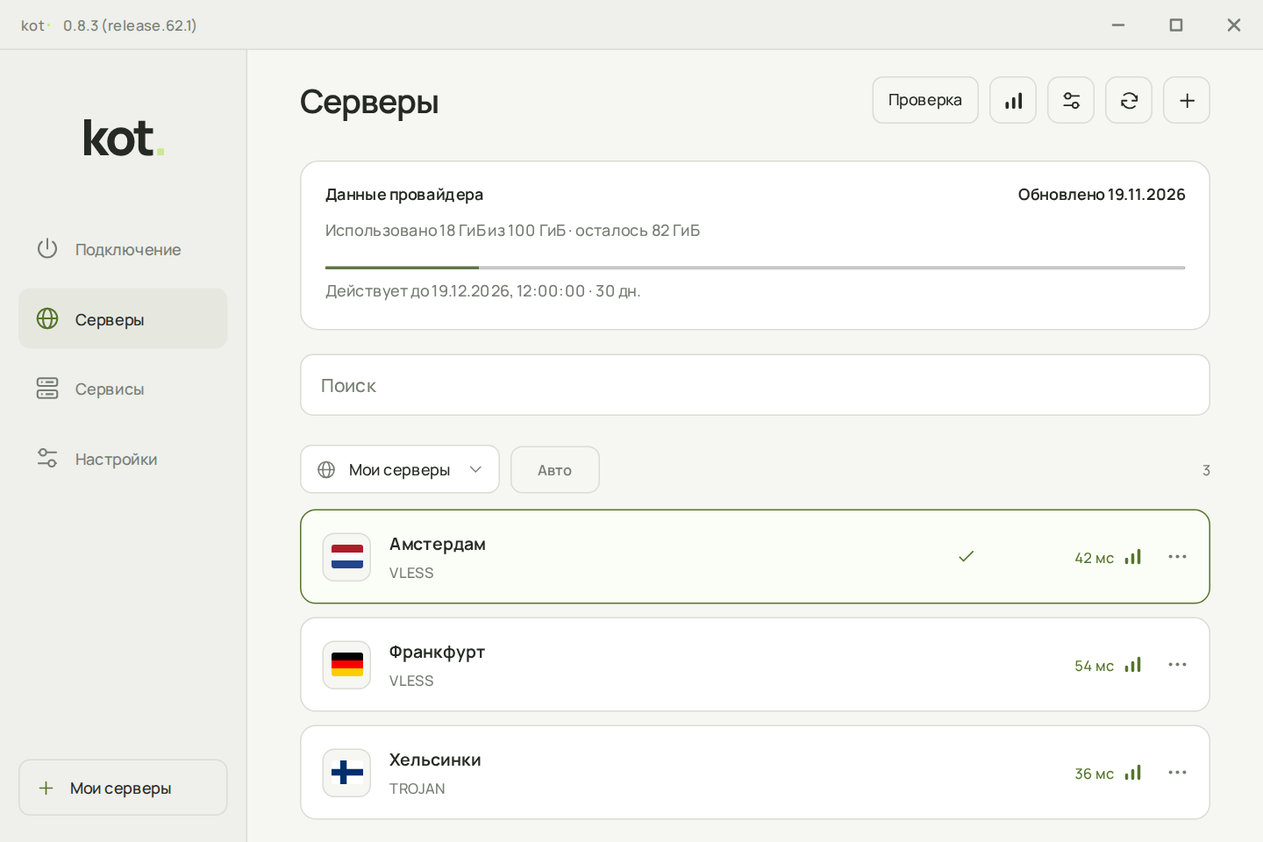
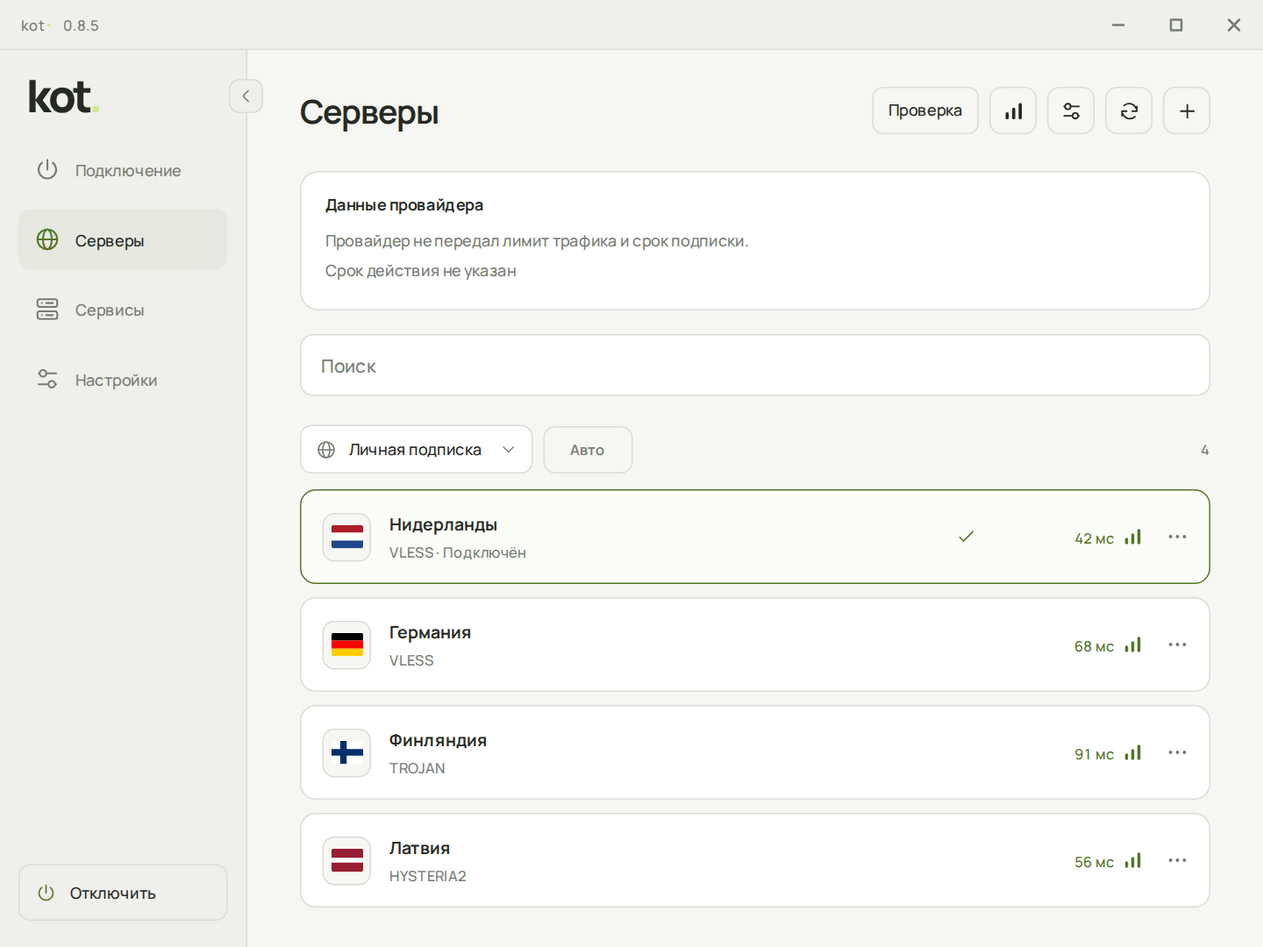
docs: refresh screenshots and user guides for 0.8.5

diff --git a/site/scripts/viewer.js b/site/scripts/viewer.js
@@ -3,11 +3,11 @@
   const ui = window.KotUI;
   const explorer = document.querySelector('[data-explorer]');
   const screens = {
-    home: { title: 'Подключение', copy: 'Выбираешь сервер и подключаешься. Здесь же переключаются TUN и системный прокси.', facts: ['Два режима подключения', 'Скорость и время сеанса'], page: 'home', alt: 'Подключение kot. 0.8.0: кнопка подключения, сервер и выбор режима' },
-    servers: { title: 'Серверы', copy: 'Подписки и отдельные серверы в одном списке. Нужный можно найти по названию, проверить и добавить в избранное.', facts: ['Поиск, задержка и избранное', 'Автовыбор доступного сервера'], page: 'servers', alt: 'Серверы kot. 0.8.0: список, поиск, пинг и избранное' },
-    routing: { title: 'Правила', copy: 'Выбираешь, какие сайты и приложения идут через сервер, какие напрямую, а какие нужно заблокировать.', facts: ['Правила для сайтов и приложений', 'Отдельные настройки DNS'], page: 'settings', alt: 'Маршрутизация kot. 0.8.0: правила, приложения и DNS', label: 'Открыть настройки в демо' },
-    statistics: { title: 'Статистика', copy: 'Сколько скачал и отправил, как долго был подключён. Можно посмотреть текущий сеанс или историю за другой период.', facts: ['Трафик по периодам', 'История подключений'], page: 'statistics', alt: 'Статистика kot. 0.8.0: сеансы и история трафика' },
-    settings: { title: 'Настройки', copy: 'Автозапуск, подключение при старте и работа в трее. Если что-то пошло не так, здесь же есть диагностика.', facts: ['Автозапуск и трей', 'Маршрутизация и диагностика'], page: 'settings', alt: 'Настройки kot. 0.8.0: внешний вид и поведение приложения' }
+    home: { title: 'Подключение', copy: 'Выбираешь сервер и подключаешься. Здесь же переключаются TUN и системный прокси.', facts: ['Два режима подключения', 'Скорость и время сеанса'], page: 'home', alt: 'Подключение kot. 0.8.5: кнопка подключения, сервер и выбор режима' },
+    servers: { title: 'Серверы', copy: 'Подписки и отдельные серверы в одном списке. Нужный можно найти по названию, проверить и добавить в избранное.', facts: ['Поиск, задержка и избранное', 'Автовыбор доступного сервера'], page: 'servers', alt: 'Серверы kot. 0.8.5: список, поиск, пинг и избранное' },
+    routing: { title: 'Правила', copy: 'Выбираешь, какие сайты и приложения идут через сервер, какие напрямую, а какие нужно заблокировать.', facts: ['Правила для сайтов и приложений', 'Отдельные настройки DNS'], page: 'settings', alt: 'Маршрутизация kot. 0.8.5: правила, приложения и DNS', label: 'Открыть настройки в демо' },
+    statistics: { title: 'Статистика', copy: 'Сколько скачал и отправил, как долго был подключён. Можно посмотреть текущий сеанс или историю за другой период.', facts: ['Трафик по периодам', 'История подключений'], page: 'statistics', alt: 'Статистика kot. 0.8.5: сеансы и история трафика' },
+    settings: { title: 'Настройки', copy: 'Автозапуск, подключение при старте и работа в трее. Если что-то пошло не так, здесь же есть диагностика.', facts: ['Автозапуск и трей', 'Маршрутизация и диагностика'], page: 'settings', alt: 'Настройки kot. 0.8.5: внешний вид и поведение приложения' }
   };
   const tabs = [...explorer.querySelectorAll('[data-explore]')];
   const list = explorer.querySelector('[role=tablist]');

diff --git a/site/index.html b/site/index.html
@@ -1,8 +1,8 @@
 <!doctype html>
 <html lang="ru"><head><meta charset="utf-8"><meta name="viewport" content="width=device-width, initial-scale=1"><meta name="theme-color" content="#101213"><meta name="color-scheme" content="dark">
-  <meta name="description" content="Клиент для Windows. Твои подписки, серверы и правила маршрутизации в одном окне.">
+  <meta name="description" content="VPN-клиент для Windows на базе Xray. Твои подписки, серверы и правила маршрутизации в одном окне.">
   <meta property="og:title" content="kot. / Твой сервер. Один клик.">
-  <meta property="og:description" content="Клиент для Windows. Твои подписки, серверы и правила маршрутизации в одном окне.">
+  <meta property="og:description" content="VPN-клиент для Windows на базе Xray. Твои подписки, серверы и правила маршрутизации в одном окне.">
   <meta property="og:type" content="website">
   <meta property="og:locale" content="ru_RU">
   <meta property="og:url" content="https://prodkot.github.io/kot/">
@@ -30,7 +30,7 @@
     <button id="view-settings" type="button" role="tab" aria-selected="false" aria-controls="vw-panel" tabindex="-1" data-explore="settings"><img src="assets/screens/settings.png" width="1440" height="1080" alt=""><span><small>05</small> Настройки</span></button>
   </div>
   <div class="vw-stage" role="tabpanel" id="vw-panel" aria-labelledby="view-home" tabindex="0">
-    <div class="vw-picture-wrap" data-swipe-gallery><button type="button" class="screen-button vw-picture" data-zoom aria-label="Увеличить выбранный экран"><img src="assets/screens/home.png" width="1440" height="960" alt="Подключение kot. 0.8.0: кнопка подключения, сервер и выбор режима" data-explorer-image fetchpriority="high"><span class="zoom-hint" aria-hidden="true">+</span></button></div>
+    <div class="vw-picture-wrap" data-swipe-gallery><button type="button" class="screen-button vw-picture" data-zoom aria-label="Увеличить выбранный экран"><img src="assets/screens/home.png" width="1440" height="960" alt="Подключение kot. 0.8.5: кнопка подключения, сервер и выбор режима" data-explorer-image fetchpriority="high"><span class="zoom-hint" aria-hidden="true">+</span></button></div>
     <div class="vw-notes"><p class="vw-counter"><span data-explorer-number>01</span><span>/ 05</span></p><div class="vw-note-copy" data-explorer-text><h2 data-explorer-title>Подключение</h2><p data-explorer-copy>Выбираешь сервер и подключаешься<span class="text-dot">.</span> Здесь же переключаются TUN и системный прокси<span class="text-dot">.</span></p><ul data-explorer-facts><li>Два режима подключения</li><li>Скорость и время сеанса</li></ul></div><button type="button" class="vw-try" data-open-demo data-demo-page="home" data-explorer-demo>Открыть демо <span aria-hidden="true">↗</span></button></div>
   </div>
 <div class="vw-controls"><span class="sr-only" aria-live="polite" data-explorer-status>Экран 1 из 5</span><div class="vw-arrows" role="group" aria-label="Переключение экранов"><button type="button" data-explore-prev aria-label="Предыдущий экран"><svg viewBox="0 0 24 24" aria-hidden="true"><path d="m14 6-6 6 6 6"/></svg></button><button type="button" data-explore-next aria-label="Следующий экран"><svg viewBox="0 0 24 24" aria-hidden="true"><path d="m10 6 6 6-6 6"/></svg></button></div></div>

diff --git a/docs/images/capture.py b/docs/images/capture.py
@@ -1,0 +1,117 @@
+"""Capture documentation from unmodified Windows/ui with synthetic host data.
+
+Requires Playwright + Chromium. Run from any directory; no real VPN is started.
+No UI markup/styles are substituted. Network requests are denied.
+"""
+import ast
+import hashlib
+import json
+from datetime import datetime, timezone
+from pathlib import Path
+import subprocess
+import xml.etree.ElementTree as ET
+from playwright.sync_api import sync_playwright, expect
+
+ROOT = Path(__file__).resolve().parents[2]
+IMAGES = ROOT / 'docs/images'
+VERSION = ET.parse(ROOT / 'Directory.Build.props').findtext('.//VersionPrefix')
+# Reuse only the bridge string, without importing or running the test module.
+MOCK = next(ast.literal_eval(n.value) for n in ast.parse((ROOT / 'Tests/statistics_ui.py').read_text()).body
+            if isinstance(n, ast.Assign) and any(getattr(t, 'id', '') == 'MOCK' for t in n.targets))
+NODES = [dict(id=key, name=name, countryCode=country, code=code, protocol=protocol,
+              ping=dict(status='ok', ms=ms, mode='http', successes=2, attempts=2))
+         for key, name, country, code, protocol, ms in [
+             ('nl', 'Нидерланды', 'NL', 'VL', 'vless', 42),
+             ('de', 'Германия', 'DE', 'VL', 'vless', 68),
+             ('fi', 'Финляндия', 'FI', 'TR', 'trojan', 91),
+             ('lv', 'Латвия', 'LV', 'HY', 'hysteria2', 56)]]
+RULES = dict(version=1, name='На каждый день', defaultAction='proxy',
+             directDomains=['.ru', '.рф'], proxyDomains=['example.org'], blockDomains=['ads.example'],
+             directCountries=['RU'], proxyCountries=[], blockCountries=[],
+             directDns='cloudflare', remoteDns='adguard')
+SETTINGS = dict(theme='dark', accent='lime', mode='tun', startup=False, autoConnect=False,
+                tray=True, sendHwid=False, killSwitch=False, killSwitchActive=False, bypass='')
+PATCH = dict(version=VERSION, displayVersion=VERSION, buildNumber='',
+             nodes=NODES, selected='nl', activeNode=NODES[0], nextNode='nl',
+             subscriptions=[dict(id='s', name='Личная подписка', count=4)], favorites=['nl', 'de'],
+             updated='2026-11-24T10:00:00Z', settings=SETTINGS,
+             routing=dict(active='daily', profiles=[dict(id='daily', rules=RULES, sourceUrl='', refreshHours=0, updated=None)], errors={}),
+             geoIp=dict(busy=False, error='', refreshHours=24, countries=[dict(code='RU', ready=True, updated='2026-11-24T10:00:00Z')]))
+
+
+def capture():
+    outputs = []
+    with sync_playwright() as p:
+        browser = p.chromium.launch(args=['--no-sandbox'])
+        try:
+            page = browser.new_page(viewport=dict(width=960, height=720), device_scale_factor=1.5,
+                                    timezone_id='Europe/Moscow', locale='ru-RU', reduced_motion='reduce')
+            page.set_default_timeout(8000)
+            errors = []
+            page.on('pageerror', lambda e: errors.append(str(e)))
+            page.route('https://**/*', lambda r: r.abort())
+            page.route('http://**/*', lambda r: r.abort())
+            page.add_init_script(MOCK)
+            page.clock.install(time=datetime(2026, 11, 24, 12, tzinfo=timezone.utc))
+            page.goto((ROOT / 'Windows/ui/index.html').as_uri())
+            expect(page.locator('#startupScreen')).to_be_hidden()
+            page.clock.pause_at(datetime(2026, 11, 24, 12, 0, 5, tzinfo=timezone.utc))
+            page.evaluate('patch => fixtureStatistics(patch)', PATCH)
+            page.evaluate('''() => {
+                const s=fixtureStatisticsData();
+                s.started='2026-11-24T11:40:26Z';
+                s.firstRecorded='2026-09-01T10:00:00Z';
+                s.detail={firstRecorded:s.firstRecorded,error:'',days:[],speeds:[]};
+                for(const period of ['session','week','month','allTime'])
+                    s.detail[period]=[{app:'Не определено',route:'unknown',download:s[period].download,upload:s[period].upload}];
+                fixtureStatistics({statistics:s});
+            }''')
+            expect(page.locator('#titleVersion')).to_have_text(VERSION)
+            page.evaluate('document.fonts.ready')
+
+            def shot(paths):
+                page.mouse.move(0, 0)
+                page.clock.run_for(500)
+                data = page.screenshot(animations='disabled')
+                for path in paths:
+                    dest = ROOT / path
+                    dest.parent.mkdir(parents=True, exist_ok=True)
+                    dest.write_bytes(data)
+                    outputs.append(dict(path=path, sha256=hashlib.sha256(data).hexdigest()))
+                print('Captured', paths[0], flush=True)
+
+            page.set_viewport_size(dict(width=960, height=640))
+            expect(page.locator('#stateLabel')).to_have_text('Подключено')
+            shot(['docs/images/readme/connection.png', 'site/assets/screens/home.png'])
+            page.set_viewport_size(dict(width=960, height=720))
+            page.evaluate('fixtureNavigate("servers")')
+            page.evaluate('settings => fixtureStatistics({settings})', {**SETTINGS, 'theme': 'light'})
+            shot(['docs/images/readme/servers.png'])
+            page.evaluate('settings => fixtureStatistics({settings})', SETTINGS)
+            shot(['site/assets/screens/servers.png'])
+            page.evaluate('fixtureNavigate("settings")')
+            shot(['site/assets/screens/settings.png'])
+            page.locator('#routingButton').click()
+            expect(page.locator('#routingName')).to_have_value(RULES['name'])
+            shot(['docs/images/routing-dark.png', 'site/assets/screens/routing.png'])
+            page.locator('#geoIpButton').click()
+            expect(page.locator('#geoIpDialog')).to_be_visible()
+            shot(['docs/images/geoip-dark.png'])
+            page.locator('#closeGeoIp').click()
+            page.locator('#closeRouting').click()
+            page.evaluate('fixtureNavigate("statistics")')
+            expect(page.locator('#statisticsDownload')).to_have_text('512 МБ')
+            shot(['docs/images/statistics-dark.png', 'site/assets/screens/statistics.png'])
+            assert not errors, errors
+            manifest = dict(version=VERSION, sourceCommit=subprocess.check_output(['git', 'rev-parse', 'HEAD'], cwd=ROOT, text=True).strip(),
+                            renderer='Chromium ' + browser.version, host='synthetic bridge, no Windows host or VPN',
+                            viewport={'home': [960, 640], 'other': [960, 720]}, deviceScaleFactor=1.5,
+                            uiSha256={str(path.relative_to(ROOT)): hashlib.sha256(path.read_bytes()).hexdigest()
+                                      for path in sorted((ROOT/'Windows/ui').iterdir()) if path.is_file() and path.suffix in ('.js','.html','.css')},
+                            images=outputs)
+            (IMAGES / 'capture.json').write_text(json.dumps(manifest, ensure_ascii=False, indent=2) + '\n')
+        finally:
+            browser.close()
+
+if __name__ == '__main__':
+    capture()

diff --git a/docs/STATISTICS.md b/docs/STATISTICS.md
@@ -1,12 +1,12 @@
 # Время подключения и статистика
 
-> Экспериментальная 0.8.0 использует Xray Metrics. Общие итоги, таймеры и история сохраняются. Xray не отдаёт прежний список соединений, поэтому новые данные по приложениям и маршрутам считаются неопределёнными. Ниже описание распределения прежних версий относится к сохранённой истории, а не к возможностям нового ядра.
+kot. 0.8.5 использует Xray Metrics. Общие итоги, таймеры и история сохраняются. Xray не отдаёт список отдельных соединений: новые данные по приложениям и маршрутам учитываются как «Не определено» и «Маршрут не определён». Распределение из старых версий остаётся в сохранённой истории.
 
-Начиная с версии 0.6.0 ниже общих итогов показываются приложения и маршруты «Через VPN», «Напрямую» и «Маршрут не определён», график скорости последних трёх минут текущего сеанса, дневные итоги и график трафика за выбранный календарный период. Для «Всё время» график показывает последние 30 дней, а числовые итоги охватывают всю сохранённую историю.
+Ниже общих итогов показываются приложения и маршруты «Через VPN», «Напрямую» и «Маршрут не определён», график скорости последних трёх минут текущего сеанса, дневные итоги и график трафика за выбранный календарный период. Для «Всё время» график показывает последние 30 дней, а числовые итоги охватывают всю сохранённую историю.
 
 Подробные счётчики сохраняются отдельно в `traffic-details.json`. Общие показатели из `traffic-history.json` сохраняются при обновлении; прошлый трафик нельзя задним числом распределить по приложениям. Дата начала подробного учёта показана на странице. Скоростной график хранится только для текущего процесса и очищается при новом подключении.
 
-Ядро опрашивается раз в две секунды. Соединения, успевшие закрыться между опросами, и приложения без имени учитываются как «Не определено». Сумма подробных счётчиков сверяется с общим трафиком ядра. При позднем появлении соединения его доля ограничивается трафиком соответствующего интервала, поэтому распределение по приложениям следует считать оценкой. В режиме системного прокси приложения определяются не для всех соединений. Учитывается только трафик, прошедший через ядро, включая его прямые маршруты.
+Старая разбивка по приложениям была оценкой: короткие соединения между опросами и процессы без имени могли попадать в неизвестные. В текущем клиенте отдельные приложения и маршруты из общих счётчиков Xray не восстанавливаются. Нулевой итог «Через VPN» в этой разбивке не означает отсутствие VPN-трафика; общий объём показан выше, а новая подробная запись относится к неопределённому маршруту.
 
 Открой **Настройки → Статистика**: строка находится в основной карточке сразу под **Закрывать в трей**. Раздел также доступен в меню значка приложения в трее. Здесь показан таймер текущего подключения. Он запускается после успешной проверки соединения и останавливается при отключении. Попытки соединения и ожидание сети не входят во время подключения. Каждый успешный запуск нового соединения, включая автоматическое переподключение, начинает новый сеанс. Смена выбранного узла внутри работающего ядра сама по себе не начинает новый сеанс.
 
@@ -21,7 +21,7 @@
 
 ![Статистика в тёмной теме](images/statistics-dark.png)
 
-На снимке показаны демонстрационные данные браузерного теста, а не измерение реального VPN-соединения.
+На снимке интерфейс 0.8.5 в Chromium с демонстрационными данными. Это не измерение реального VPN-соединения.
 
 ## Что измеряется
 

diff --git a/docs/GUIDE.md b/docs/GUIDE.md
@@ -6,7 +6,7 @@
 
 В ручном режиме обновление подписки сохраняет текущее подключение. Даже если выделена другая строка, выключение и включение VPN вернёт тебя на прежний сервер. Чтобы сменить его, нажми на нужную строку. Если сервер исчез, действующий туннель продолжит работу, а для нового подключения понадобится выбрать сервер или **Авто**. Если прежний сервер вернулся под другим именем или с новым клиентским UUID, kot восстановит выбор, когда адрес, транспорт и параметры защиты позволяют однозначно узнать его. После переподключения используются обновлённые данные. Когда выделенная строка отличается от цели подключения, на главной видно, куда ведёт туннель и куда подключится кнопка.
 
-В **Логах** видны сообщения приложения. Экспериментальная версия 0.8.0 получает от Xray общий трафик без списка отдельных соединений. Кнопка копирования собирает полный диагностический лог. Перед публикацией проверь его: там могут остаться адреса сайтов и другие личные сведения.
+В **Журнале** видны сообщения приложения. kot. получает от Xray общий трафик без списка отдельных соединений. Кнопка копирования собирает полный диагностический лог. Перед публикацией проверь его: там могут остаться адреса сайтов и другие личные сведения.
 
 ## Режим подключения
 
@@ -43,15 +43,17 @@
 
 ## Окно и трей
 
+Боковую панель можно свернуть кнопкой у её верхней границы. Кнопка подключения внизу панели доступна и на других страницах; она отражает текущее состояние VPN.
+
 Свернуть оставляет окно на панели задач. Если включено **Закрывать в трей**, крестик скрывает окно. Левый клик по иконке трея открывает kot., правый открывает меню. Полный выход находится в этом меню.
 
 ## Обновления
 
 В **Настройках** нажми **Проверить обновления**. Программа проверит новую версию на GitHub, в `prodkot/kot`. Если обновление есть, нажми **Обновить**. Фоновая проверка при старте и раз в сутки только ищет новую версию. Плашка предлагает «Обновить» или «Не сейчас»: загрузка и установка запускаются только после нажатия «Обновить». «Не сейчас» скрывает предложение для этой версии, в том числе после перезапуска. Обновиться позже можно через настройки; следующая новая версия покажет своё предложение. Перед установкой проверяются подписи; папку выбирать не нужно. Подписки, настройки и HWID сохраняются, активное соединение восстанавливается после перезапуска.
 
-Версия 0.4.2 и более ранние искали ZIP. Для перехода на 0.5.x нужно один раз запустить новый Setup. Следующие обновления уже работают через Setup.
+Для перехода с 0.7.x и более ранних выпусков скачай текущий Setup и запусти его вручную поверх установленного клиента: прежний обновлятор несовместим с нынешним пакетом на Xray. С 0.8.5 Beta на стабильную 0.8.5 также переходи вручную, потому что базовый номер версии совпадает. Подробнее о совместимости: [ядро Xray](XRAY.md#проверка-и-установка).
 
-Резервная копия доступна в **Настройки → Дополнительно**. Файл содержит данные подписок, храни его как пароль. HWID можно посмотреть и скопировать в **Настройки → HWID**.
+Резервная копия доступна в **Настройки → Дополнительно**. Файл содержит данные подписок, храни его как пароль. HWID можно посмотреть и скопировать в **Настройки → Дополнительно → HWID**.
 
 ## Статистика подключения
 

diff --git a/docs/images/README.md b/docs/images/README.md
@@ -1,7 +1,27 @@
 # Изображения документации
 
-На главной странице репозитория показаны [главный экран](readme/connection.png) и [список серверов](readme/servers.png) версии 0.8.3. Оба снимка сделаны в браузере с интерфейсом клиента и демонстрационными данными.
+Снимки README, пользовательских руководств и галереи сайта обновлены для **0.8.5**. Источник: интерфейс `Windows/ui` из коммита релиза `3707fd09546bc822811f35de6fb7d2b18e82a247`. Исходные HTML, CSS и JavaScript интерфейса при съёмке не подменяются.
 
-В этой папке также хранятся фирменный баннер `cover.svg` и снимок главного экрана версии 0.8.0 `overview-dark.png`. Снимки для сайта находятся в `site/assets`.
+| Снимок | Содержание |
+| --- | --- |
+| [readme/connection.png](readme/connection.png) | Подключение, тёмная тема, 1440 × 960 |
+| [readme/servers.png](readme/servers.png) | Серверы, светлая тема, 1440 × 1080 |
+| [routing-dark.png](routing-dark.png) | Профиль маршрутизации и DNS |
+| [geoip-dark.png](geoip-dark.png) | Базы GeoIP |
+| [statistics-dark.png](statistics-dark.png) | Сеанс и неопределённый маршрут Xray |
 
-`routing-dark.png`, `geoip-dark.png` и `statistics-dark.png` иллюстрируют отдельные руководства. Это снимки интерфейса, а не доказательство сетевых измерений.
+Пять снимков сайта находятся в [site/assets/screens](../../site/assets/screens). Они показывают подключение, серверы в тёмной теме, маршрутизацию, статистику и настройки. Размеры совпадают с прежними изображениями, чтобы сохранить геометрию галереи.
+
+Это браузерные снимки реального интерфейса с синтетическим мостом вместо Windows-хоста. Серверы, пинг, трафик, длительность сеанса, правила и состояние GeoIP демонстрационные. Сеть при съёмке заблокирована. Снимки не подтверждают работу VPN, установщика или Windows WebView2 и не содержат пользовательских подписок или секретов.
+
+## Повторить съёмку
+
+Нужны Python, Playwright и Chromium. Из корня репозитория запусти:
+
+```sh
+python3 docs/images/capture.py
+```
+
+[Скрипт](capture.py) использует мост из `Tests/statistics_ui.py`, задаёт фиктивное время и данные, снимает обе темы и обновляет [capture.json](capture.json). В манифесте записаны коммит, версия браузера, размеры, SHA-256 исходников UI и изображений. Номер версии берётся из `Directory.Build.props`; номер сборки не имитируется. После пересъёмки проверь кадры глазами и обнови подписи в README и галерее.
+
+`cover.svg` остаётся фирменным баннером. `overview-dark.png` хранится как исторический снимок 0.8.0 и не используется для показа текущего релиза.

diff --git a/README.md b/README.md
@@ -7,19 +7,25 @@
   </picture>
 </h1>
 
-<p align="center">Клиент для Windows. Твои подписки, серверы и правила маршрутизации в одном окне.</p>
+<p align="center">VPN-клиент для Windows на базе Xray. Твои подписки, серверы и правила маршрутизации в одном окне.</p>
 
 <p align="center"><strong><a href="https://github.com/prodkot/kot/releases/latest">Скачать для Windows x64</a></strong> · <a href="https://prodkot.github.io/kot/#demo" title="Твой сервер. Один клик.">Сайт и демо</a> · <a href="docs/README.md">Документация</a></p>
 
 ![Главный экран kot. с активным TUN, выбранным сервером и скоростью передачи данных](docs/images/readme/connection.png)
 
-*Главный экран v0.8.3. Сервер и показатели трафика демонстрационные.*
+*Интерфейс [0.8.5](https://github.com/prodkot/kot/releases/tag/v0.8.5). Браузерный снимок с демонстрационными сервером и трафиком.*
+
+kot. is an open-source Windows VPN and proxy client powered by Xray, with TUN, system proxy and routing profiles. Bring your own server or subscription.
+
+kot. не предоставляет VPN-серверы: нужна своя подписка или ссылка на сервер.
 
 ## Первое подключение
 
 1. Установи kot. на Windows 10 или 11 (x64). При запуске подтверди запрос прав администратора.
 2. Нажми **+** и вставь ссылку на свою подписку или отдельный сервер.
 3. Выбери сервер и нажми **Подключить**. В режиме TUN клиент проверит адаптер, DNS и прохождение трафика перед тем, как показать «Подключено».
+
+В 0.8.5 доступны просмотр JSON сервера, меню обмена QR и сворачиваемая боковая панель с кнопкой подключения. [Инструменты клиента](docs/CLIENT-TOOLS.md) описывают импорт, проверки и работу с профилями; подробный список изменений есть в [истории версий](CHANGELOG.md).
 
 ## Как проходит трафик
 
@@ -30,7 +36,9 @@ kot. использует Xray и поддерживает VLESS, VMess, Trojan,
 <details>
 <summary>Посмотреть список серверов</summary>
 
-![Экран «Серверы» в светлой теме с примером подписки и результатами проверки задержки](docs/images/readme/servers.png)
+![Экран «Серверы» kot. 0.8.5 в светлой теме с примером подписки и результатами проверки задержки](docs/images/readme/servers.png)
+
+*Тот же интерфейс 0.8.5 в светлой теме. Подписка, серверы и пинг демонстрационные.*
 
 </details>
 

diff --git a/docs/ROUTING.md b/docs/ROUTING.md
@@ -16,7 +16,7 @@
 
 Подписка также может содержать полный клиентский Xray JSON или массив конфигураций с `inbounds` и `outbounds`. Импортируй его в окне добавления подписки или через **Из файла**. Сохраняются DNS, фильтры `domains` / `expectIPs`, маршрутизация, балансировщики и Observatory. Входящие порты заменяются локальными входами клиента; Metrics защищён авторизацией; серверные inbound, внешнее управление, локальные файлы и отключённая проверка TLS не принимаются. Адреса транспортных серверов получают отдельный прямой DNS bootstrap, чтобы не зависеть от ещё не установленного VPN.
 
-В экспериментальной 0.8.0 всё соединение, TUN, DNS и статистика работают в официальном Xray. При смене сервера включаются правила его подписки. Проверка доступности проходит через прокси, независимо от прямых доменов. Полные конфиги проверяются командой Xray до сохранения. Ошибка загрузки или проверки сохраняет предыдущую подписку. Изменение правил при прежнем списке серверов вызывает переподключение.
+В kot. всё соединение, TUN, DNS и статистика работают в официальном Xray. При смене сервера включаются правила его подписки. Проверка доступности проходит через прокси, независимо от прямых доменов. Полные конфиги проверяются командой Xray до сохранения. Ошибка загрузки или проверки сохраняет предыдущую подписку. Изменение правил при прежнем списке серверов вызывает переподключение.
 
 В Авто участвуют только обычные узлы без полного конфига и правил провайдера. Полные конфигурации выбираются вручную, даже если добавлены в избранное или имеют одинаковые правила. Если избранное состоит только из таких конфигураций, Auto объясняет отсутствие кандидатов. При отказе всех реальных HTTP-проб через VPN произвольный сервер не выбирается. Смена успешно проверенного узла вызывает переподключение.
 

diff --git a/site/README.md b/site/README.md
@@ -16,7 +16,7 @@ python3 site/viewer_browser_check.py
 
 Демо собирается из `Windows/ui` с примерными данными и загружается только при открытии. Его версия берётся из исходников клиента. CSP и sandbox блокируют внешнюю сеть, включая музыку. Демо не меняет настройки компьютера и сохраняет состояние при закрытии и повторном открытии окна; кнопка сброса создаёт новый экземпляр.
 
-Снимки интерфейса 0.8.0 находятся в `assets/screens/`. Галерея переключается сама через 5,2 секунды. После ручного выбора, свайпа или стрелок она ждёт 5 секунд от последнего действия. Открытое окно демо или снимка, скрытая вкладка и удержание указателя останавливают показ. При `prefers-reduced-motion` автоматическое переключение и декоративное движение отключены.
+Снимки интерфейса 0.8.5 находятся в `assets/screens/`. Они сняты из неизменённого UI релиза в Chromium с демонстрационными данными; [источник и пересъёмка](../docs/images/README.md). Галерея переключается сама через 5,2 секунды. После ручного выбора, свайпа или стрелок она ждёт 5 секунд от последнего действия. Открытое окно демо или снимка, скрытая вкладка и удержание указателя останавливают показ. При `prefers-reduced-motion` автоматическое переключение и декоративное движение отключены.
 
 Кота можно погладить кликом, касанием или клавишей Enter/Space. Значок нажатия подсказывает действие без подписи; движение указателя само по себе поглаживание не запускает. На 5 секунд появляется «Мяу, и интернет у тебя в руках.», повторное действие продлевает показ. Клубок реагирует на указатель и касание, сохраняя вертикальную прокрутку. Точки рядом с белым текстом зелёные и квадратные, рядом с зелёным текстом белые и квадратные. Версии, адреса и исходные снимки не преобразуются.
 

diff --git a/docs/SECURITY.md b/docs/SECURITY.md
@@ -16,6 +16,6 @@ Kill switch использует постоянные фильтры Windows Fil
 - Полное поведение на реальном Windows-компьютере при смене сети, сне и аварии питания требует ручной проверки. Нативные тесты проверяют реальные WFP-фильтры в изолированной области одного тестового процесса, а не обещают отсутствие любых утечек в любой сети.
 - Конфигурации Xray передаются через stdin без временных файлов с ключами. DPAPI не защищает от вредоносной программы, уже работающей от того же пользователя.
 - Логи могут содержать адреса и личные сведения. Не публикуй их без просмотра.
-- Экспериментальная 0.8.0 собирает закреплённый официальный Xray из текущих исходников. Новая реализация TUN ещё требует длительных испытаний на разных Windows-компьютерах. Состав Go-модулей и лицензий приведён в `licenses/Xray-Go-NOTICES.txt`.
+- kot. собирает официальный Xray из закреплённого коммита с проверкой SHA-256 исходников. Длительная работа TUN на разных Windows-компьютерах требует проверки с учётом драйверов и сети пользователя. Состав Go-модулей и лицензий приведён в `licenses/Xray-Go-NOTICES.txt`.
 
 Секреты издателя не входят в репозиторий или Setup. GitHub Actions закреплены по SHA; ключ подписи доступен только заданию выпуска. Проверка истории Gitleaks выполняется при аудите репозитория; её результат относится к проверенным коммитам и не заменяет проверку следующих изменений. Проверки этой версии описаны в [BUILD.md](BUILD.md).
